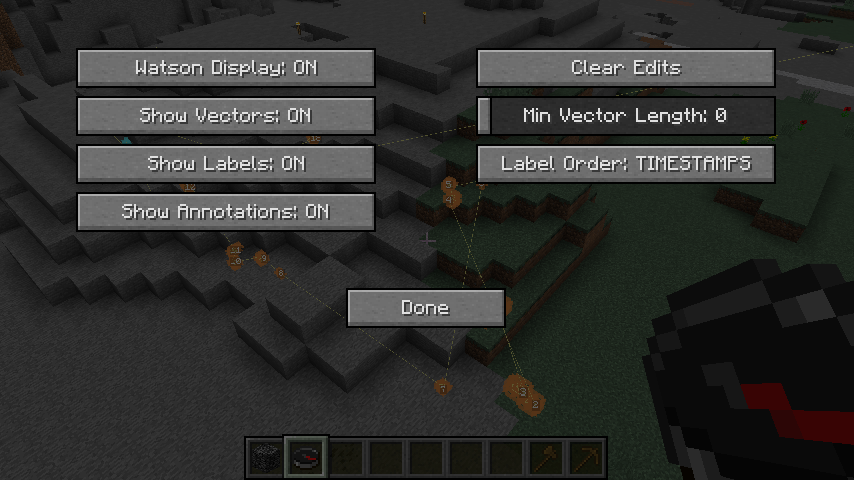
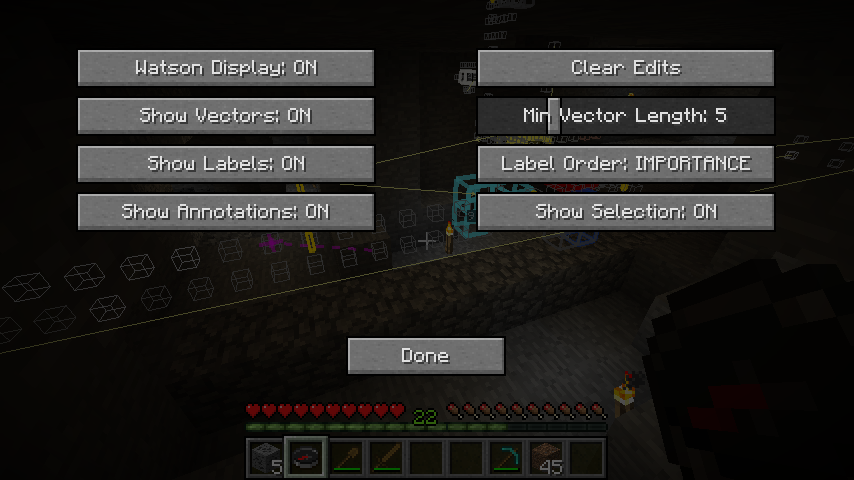
Updated version number and documentation prior to a new release.

diff --git a/README.md b/README.md
@@ -85,6 +85,15 @@ If you forget any of the above commands:
     /w help
 
 
+### The Cursor
+
+The currently selected edit or position is shown as a magenta 3-D crosshair.  A position can be selected using the query tool of the logging plugin, irrespective of whether any results are returned.  If the currently selected position corresponds to a block edited by a player, then a dashed magenta line will be drawn to the edit that preceded it (if Watson has that edit in its memory).
+
+The current selection is automatically changed when a new query result is received in chat, if you teleport to an ore deposit using "/w tp" or if you use the logging plugin's teleport-to-edit command (e.g. "/lb tp 1").
+
+Watson can move the cursor through consecutive edits that it has seen in query results, using configurable keys (they default to Alt+SCROLL_UP and Alt+SCROLL_DOWN).  You can also teleport to the current cursor using a configurable key (which defaults to Alt+MOUSE_LEFT).
+
+
 ### Viewing Ore Deposits
 
 Watson groups adjacent destructions of ore blocks into ore deposits.  Here, "adjacent" includes blocks up to 1 block away along all three cardinal axes simultaneously.  Ore deposits are assigned numeric labels starting at 1 and increasing in time.  All diamonds are numbered first, then emeralds, then iron, gold, lapis, redstone, coal and finally quartz.  Thus, if the coordinates of 5 diamond deposits and 10 iron deposits have been retrieved from the LogBlock database, the diamond deposits will be numbered from 1 to 5, with 1 being the oldest diamond, and the iron deposits will be numbered from 6 to 15, with 6 being the oldest iron deposit.
@@ -368,6 +377,15 @@ Currently, the following settings can be configured with this screen:
   </tr>
   <tr>
     <td>Query edits after</td> <td>Ctrl + MOUSE_RIGHT</td> <td>Query edits after the currently selected edit (equivalent to "/w post").</td>
+  </tr>
+  <tr>
+    <td>Cursor to next edit</td> <td>Alt + SCROLL_DOWN</td> <td>Select the edit after the currently selected edit.</td>
+  </tr>
+  <tr>
+    <td>Cursor to previous edit</td> <td>Alt + SCROLL_UP</td> <td>Select the edit before the currently selected edit.</td>
+  </tr>
+  <tr>
+    <td>TP to cursor</td> <td>Alt + MOUSE_LEFT</td> <td>Teleport to the currently selected edit or position.</td>
   </tr>
 </table>
 

diff --git a/Changes.md b/Changes.md
@@ -1,5 +1,12 @@
 Change History
 ==============
+0.13.0.134-mc1.8.0
+------------------
+* The currently selected position or edit is now indicated by a visible marker.
+* A dashed line is drawn between the selected edit and the preceding edit (if known).
+* The selection can be moved back and forth between consecutive edits using configurable keys.
+* You can teleport to the selection using a configurable key.
+
 0.12.1.132-mc1.8.0
 ------------------
 * Fix crashes loading files and clearing edits, apparently caused by changes to how 1.8 uses threads.
